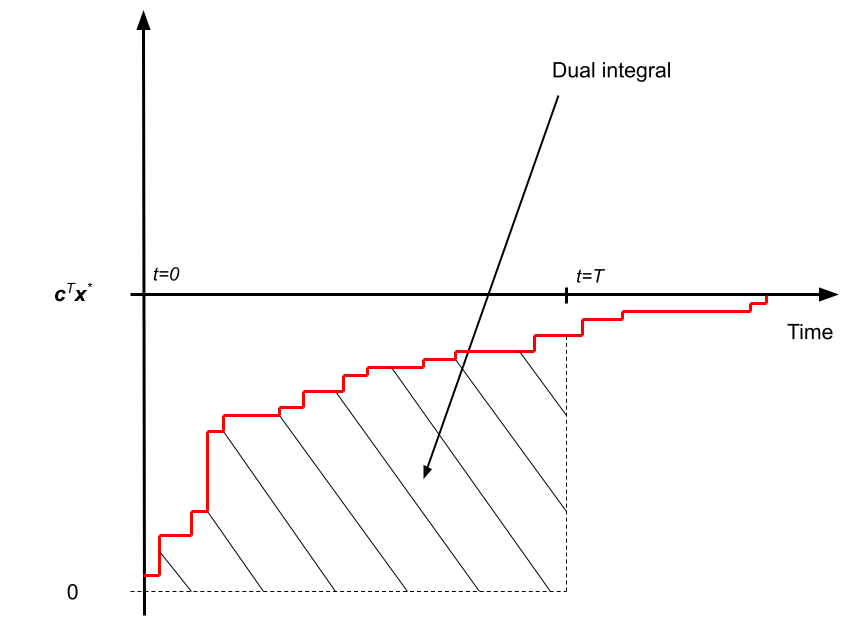
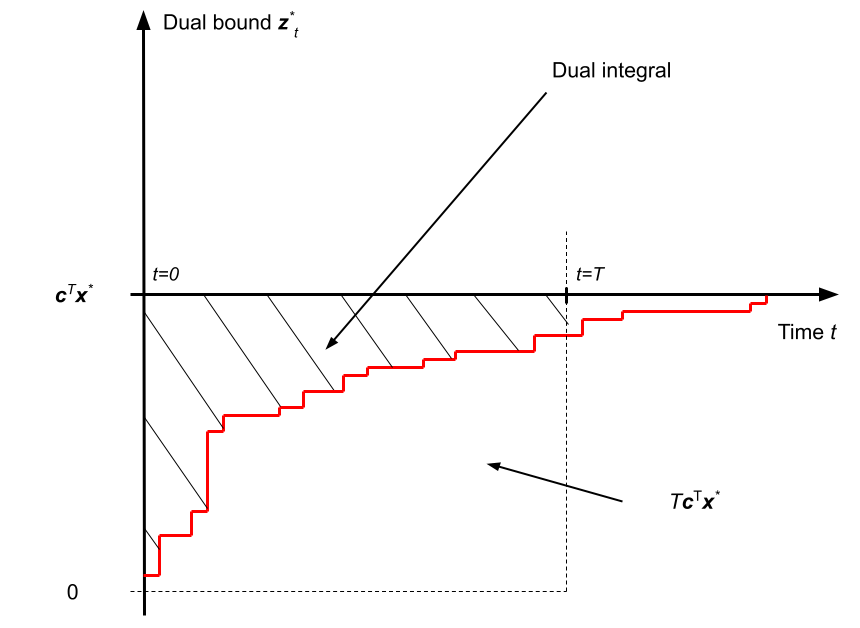
Updated the metrics section

diff --git a/2021/ml4co-competition/index.html b/2021/ml4co-competition/index.html
@@ -192,7 +192,7 @@
 					</li>
 					<li>
 						<h3><a href="#dual-task" class="button">Dual task</a></h3>
-						<p>Select branching variables, in order to maximize the <em>dual integral</em> over time.</p>
+						<p>Select branching variables, in order to minimize dual the <em>dual integral</em> over time.</p>
 					</li>
 					<li>
 						<h3><a href="#config-task" class="button">Configuration task</a></h3>
@@ -472,7 +472,23 @@
 				<b>good and fast decisions</b>.
 			</p>
 			<p>
-				<em>Note: for simplicity in the following we consider MILPs expressed as minimization problems, without loss of generality.</em>
+				In the following we consider instances of mixed-integer linear programs (MILPs)
+				expressed as follows:
+				\[
+				\begin{eqnarray}
+					\underset{\mathbf{x}}{\operatorname{arg\,min}} \quad \mathbf{c}^\top\mathbf{x} && \\
+					\text{subject to} \quad \mathbf{A}^\top\mathbf{x} & \leq & \mathbf{b} \text{,} \\
+					\mathbf{x} & \in & \mathbb{Z}^p \times \mathbb{R}^{n-p}
+					\text{,}
+				\end{eqnarray}
+				\]
+				where \(\mathbf{c} \in \mathbb{R}^n\)
+				denotes the coefficients of the linear objective,
+				\(\mathbf{A} \in \mathbb{R}^{m \times n}\) and \(\mathbf{b} \in \mathbb{R}^m\)
+				respectively denote the coefficients and upper bounds of the
+				linear constraints, while \(n\) is the total number of variables,
+				\(p \leq n\) is the number of integer-constrained variables, and
+				\(m\) the number of linear constraints.
 			</p>
 		</div>
 		<div class="spotlight">
@@ -482,25 +498,42 @@
 						Primal integral
 					</dt>
 					<dd>
-						This evaluation metric measures the area under the curve of
-						the solver's <b>primal bound</b> (a.k.a.
-						global upper bound), which corresponds to the value of
-						the best feasible solution found so far. By providing
-						better solutions over time, the value of the primal bound
-						decreases. To compute this metric unambiguously, a trivial
-						initial solution \(x^0\) is always be provided to SCIP
-						at the beginning of the solving process.
-						The primal integral then expresses as:
-						\[
-						    \int_{t=0}^{T} \mathbf{c}^\top \mathbf{x}^\star_t\;\mathrm{d}t
-						    \text{,}
-						\]
-						where \(\mathbf{x}^\star_t\) is the overall best solution found at
-						time \(t\), \(\mathbf{c}\) is the MILP linear objective, and
-						\(T\) is the solving time limit. The primal integral is to be <b>minimized</b>, and
-						takes a minimal value of \(T\mathbf{c}^\top \mathbf{x}^\star\)
-						for each problem instance, with \(\mathbf{x}^\star\) the
-						optimal solution value for that instance.
+						<p>
+							This objective measures the area under the curve of
+							the solver's <b>primal bound</b> (a.k.a.
+							global upper bound), which corresponds to the value of
+							the best feasible solution found so far. By providing
+							better feasible solutions over time, the value of the primal bound
+							decreases.
+							With a time limit \(T\), the primal integral expresses as:
+							\[
+								\int_{t=0}^{T} \mathbf{c}^\top \mathbf{x}^\star_t\;\mathrm{d}t - T\mathbf{c}^\top\mathbf{x}^\star
+								\text{,}
+							\]
+							where \(\mathbf{x}^\star_t\) is the best feasible
+							solution found at time \(t\) (so that
+							\(\mathbf{c}^\top \mathbf{x}^\star_t\) is the primal
+							bound at time \(t\)), and \(T\mathbf{c}^\top\mathbf{x}^\star\)
+							is an instance-specific constant that depends on the
+							optimal solution \(\mathbf{x}^\star\).
+							The primal integral is to be <b>minimized</b>, and takes
+							an optimal value of 0.
+						</p>
+						<p>
+							<em>
+								Note: to compute this metric unambiguously, a trivial
+								initial solution \(x^\star_0\) is always provided to SCIP
+								at the beginning of the solving process. Also,
+								the constant term \(\mathbf{c}^\top\mathbf{x}^\star\)
+								can be safely ignored at training time when
+								participants train their control policy, as the
+								learning problem is equivalent.
+								At test time however, when we will evaluate the
+								participant submissions, this constant
+								term (or a proper substitute) will be incorporated
+								in the reported metric.
+							</em>
+						</p>
 					</dd>
 				</dl>
 			</div>
@@ -515,24 +548,39 @@
 						Dual integral
 					</dt>
 					<dd>
-						This objective measures the area under the curve of the
-						solver's <b>dual bound</b> (a.k.a. global lower bound),
-						which usually corresponds to a solution of a valid
-						relaxation of the MILP. By branching, the LP relaxations
-						corresponding to the branch-and-bound tree leaves get
-						tightened, and the dual bound increases over time. In the
-						context of branching, this metric is unambiguous to
-						compute, as the root node of the tree always provides an
-						initial dual bound. The dual integral then expresses as:
-						\[
-							\int_{t=0}^{T} \mathbf{z}^\star_t\;\mathrm{d}t
-							\text{,}
-						\]
-						where \(\mathbf{z}^\star_t\) is the best dual bound at
-						time \(t\). The dual integral is to be <b>maximized</b> and takes
-						a maximal value of \(T\mathbf{c}^\top \mathbf{x}^\star\) for
-						each problem instance, with \(\mathbf{x}^\star\) the optimal
-						solution value for that instance.
+						<p>
+							This objective measures the area over the curve of the
+							solver's <b>dual bound</b> (a.k.a. global lower bound),
+							which usually corresponds to a solution of a valid
+							relaxation of the MILP. By branching, the LP relaxations
+							corresponding to the branch-and-bound tree leaves get
+							tightened, and the dual bound increases over time.
+							With a time limit \(T\), the dual
+							integral expresses as:
+							\[
+								- \int_{t=0}^{T} \mathbf{z}^\star_t\;\mathrm{d}t + T\mathbf{c}^\top\mathbf{x}^\star
+								\text{,}
+							\]
+							where \(\mathbf{z}^\star_t\) is the best dual bound at
+							time \(t\), and \(T\mathbf{c}^\top\mathbf{x}^\star\) is
+							an instance-specific constant that depends on the
+							optimal solution value \(\mathbf{c}^\top\mathbf{x}^\star\).
+							The dual integral is to be <b>minimized</b>, and takes
+							an optimal value of 0.
+						</p>
+						<p>
+							<em>
+								Note: in the context of branching, this metric is unambiguous to
+								compute, as the root node of the tree always provides an
+								initial dual bound \(\mathbf{z}^*_0\).
+								at the beginning of the solving process. Here again,
+								the constant term \(\mathbf{c}^\top\mathbf{x}^\star\)
+								can be safely ignored for training time,
+								but will be incorporated (or a proper substitute)
+								in the metrics that we will report when evaluating
+								the participants submissions.
+							</em>
+						</p>
 					</dd>
 				</dl>
 			</div>
@@ -547,20 +595,32 @@
 						Primal-dual gap integral
 					</dt>
 					<dd>
-						This objective measures the area between two curves, the 
-						solver's <b>primal bound</b> and the solver's
-						<b>dual bound</b>. In the context of algorithm
-						configuration, an initial value is required for these
-						two curves at time \(t=0\). Therefore we provide both an
-						initial trivial solution and a valid initial dual bound to
-						SCIP for this task. The primal-dual gap integral then
-						expresses as:
-						\[
-							\int_{t=0}^{T} \mathbf{c}^\top \mathbf{x}^\star_t - \mathbf{z}^\star_t\;\mathrm{d}t
-							\text{.}
-						\]
-						The primal-dual gap integral is to be <b>minimized</b> and takes
-						an optimal value of 0.
+						<p>
+							This objective measures the area between two curves, the
+							solver's <b>primal bound</b> and the solver's
+							<b>dual bound</b>. As such, this metric benefits
+							both from improvements obtained from the primal side
+							(finding good feasible solutions), and on the dual
+							side (producing a tight optimality certificate).
+							With a time limit \(T\), the
+							primal-dual gap integral expresses as:
+							\[
+								\int_{t=0}^{T} \mathbf{c}^\top \mathbf{x}^\star_t - \mathbf{z}^\star_t\;\mathrm{d}t
+								\text{.}
+							\]
+							The primal-dual gap integral is to be <b>minimized</b>,
+							and take an optimal value of 0.
+						</p>
+						<p>
+							<em>
+								Note: in the context of algorithm
+								configuration, an initial value is required for
+								the two curves at time \(t=0\). Therefore we
+								always provide both an initial trivial
+								solution \(x^\star_0\) and a valid initial
+								dual bound \(z^\star_0\) to SCIP for this task.
+							</em>
+						</p>
 					</dd>
 				</dl>
 			</div>
